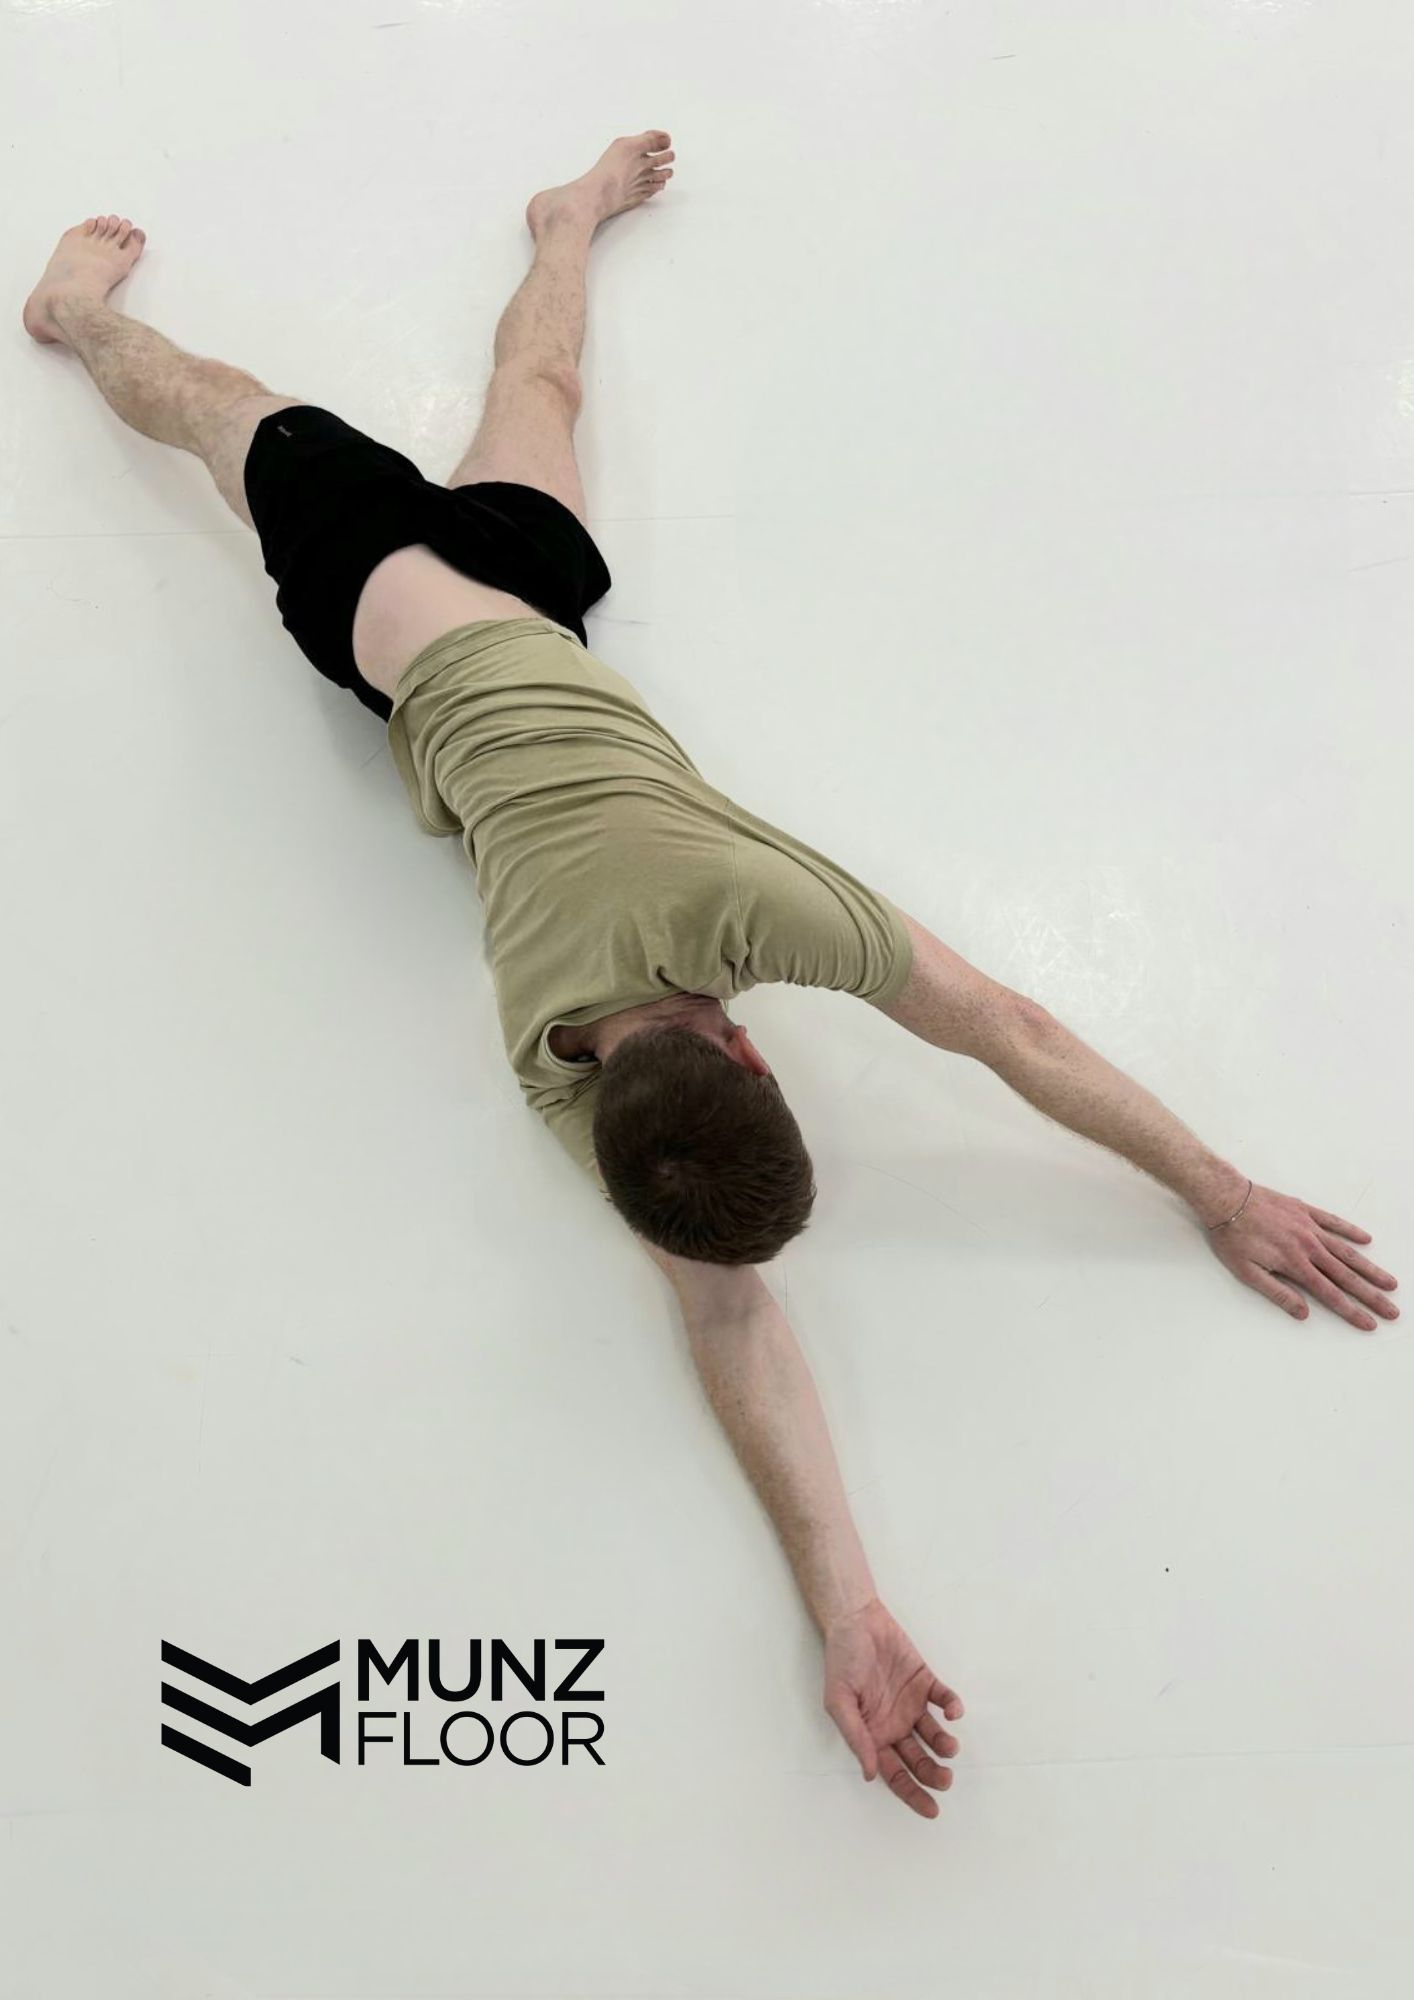
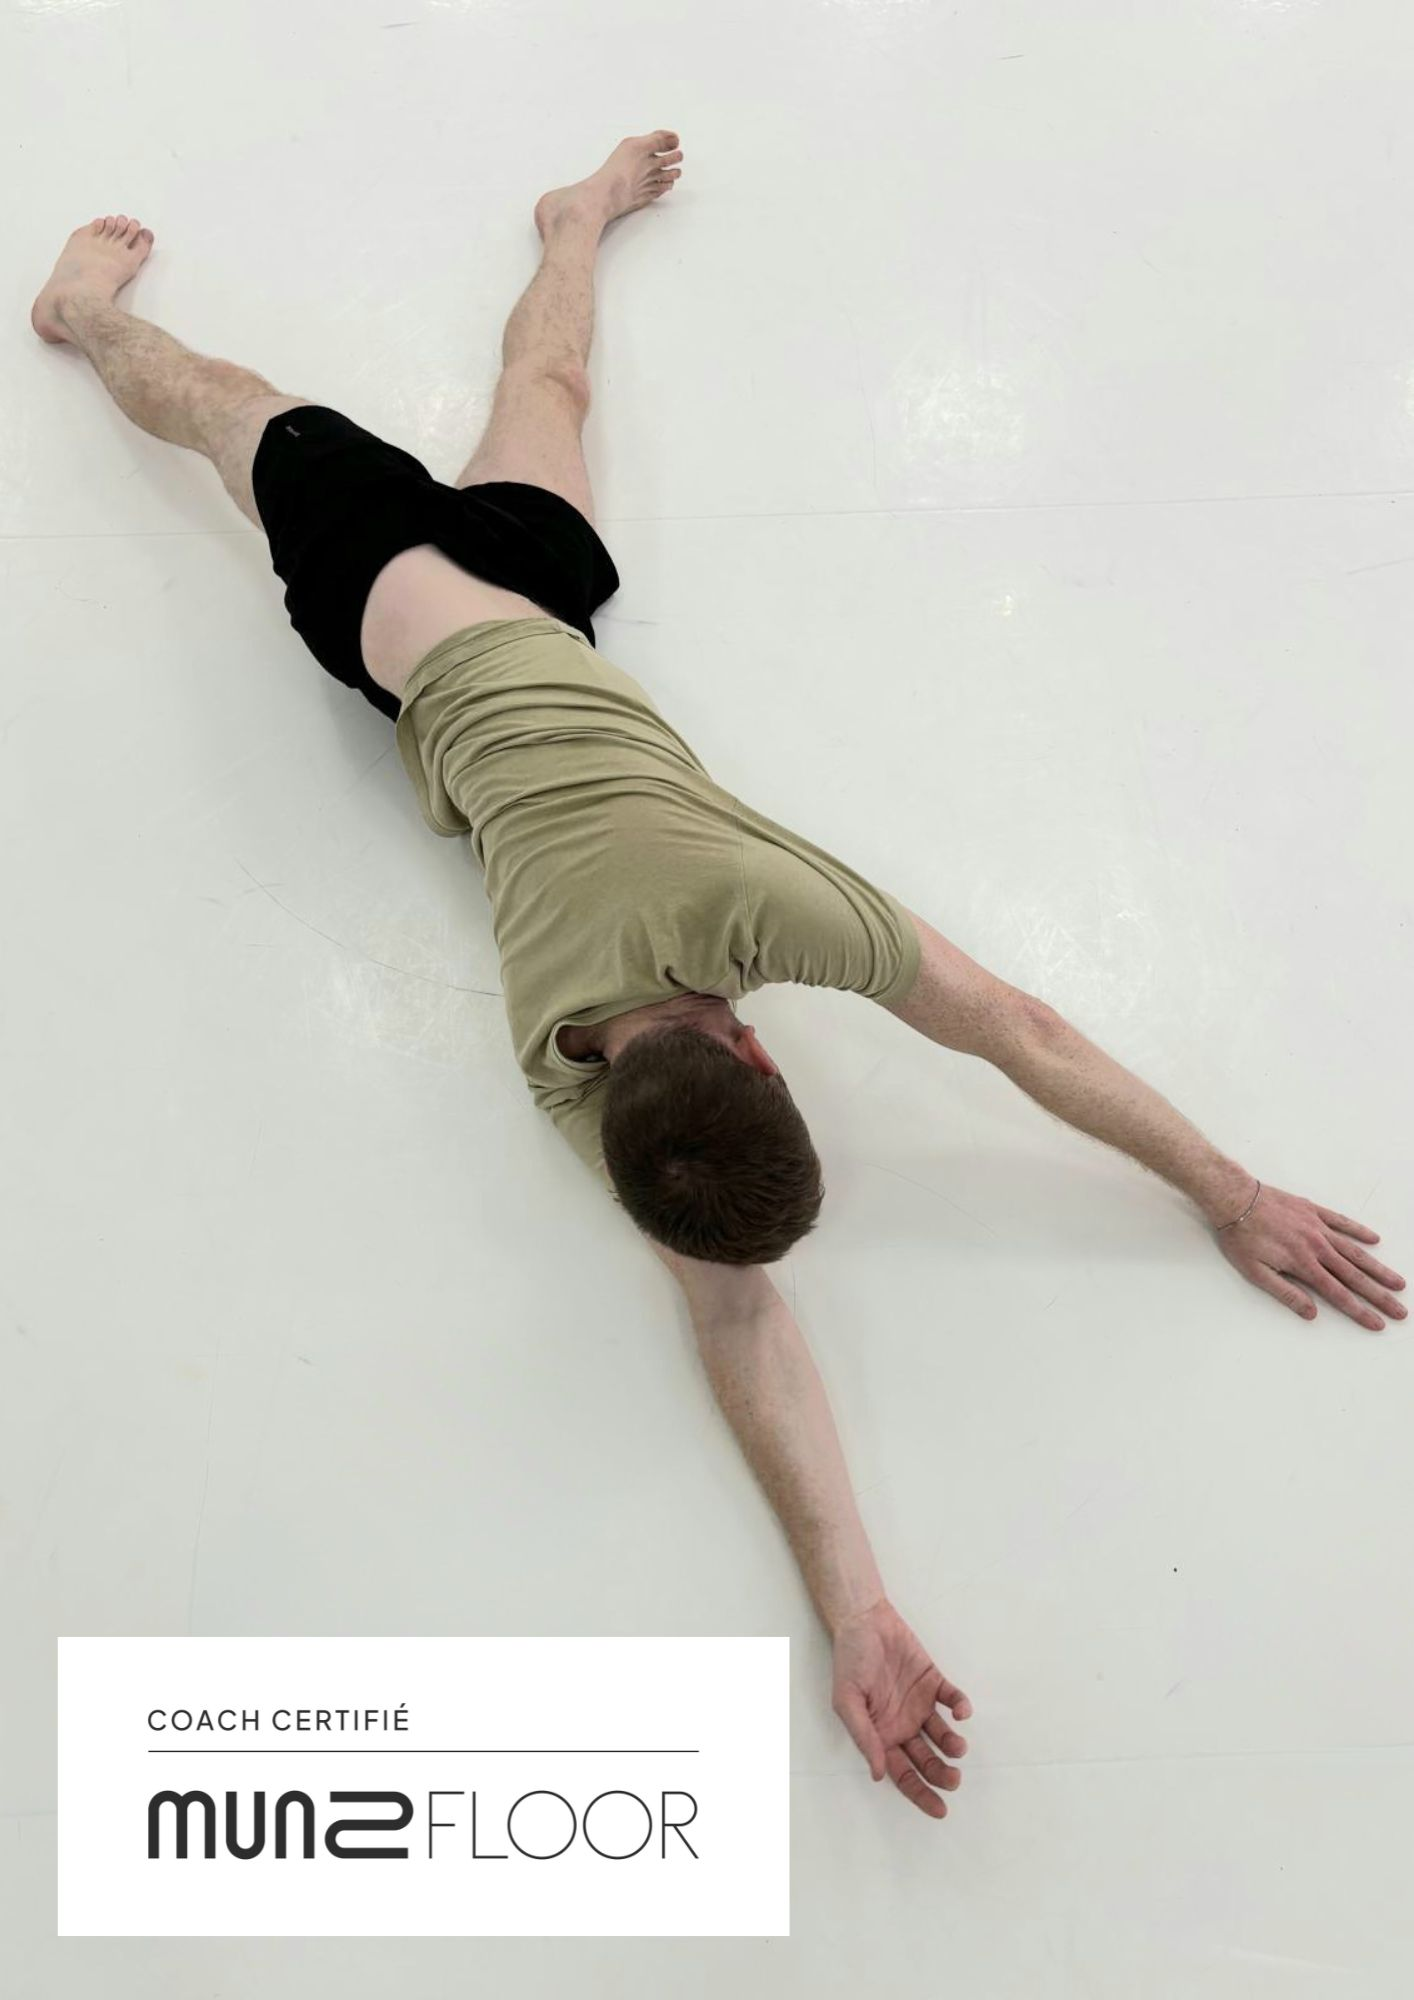
foto muntz

diff --git a/app/assets/stylesheets/pages/_home.scss b/app/assets/stylesheets/pages/_home.scss
@@ -562,11 +562,12 @@
         }
 
         .munz-image {
-          width: 35%;
-          height: 80%;
+          width: 30%;
+          height: auto;
+          aspect-ratio: 707 / 1000; // matches munz.jpeg's native 1414x2000 ratio
           text-align: center;
           background-image: url('munz.jpeg');
-          background-size: cover;
+          background-size: contain;
           background-repeat: no-repeat;
           background-position: center;
           border-radius: 20px;
@@ -576,7 +577,7 @@
 
           @media (max-width: 960px) {
             width: 70%;
-            height: 50%;
+            height: auto;
             margin: auto;
             margin-top: 10px;
           }
